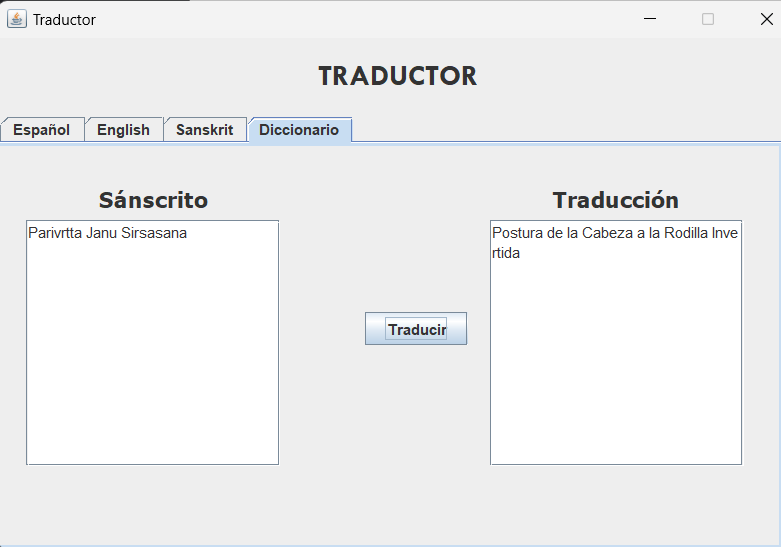
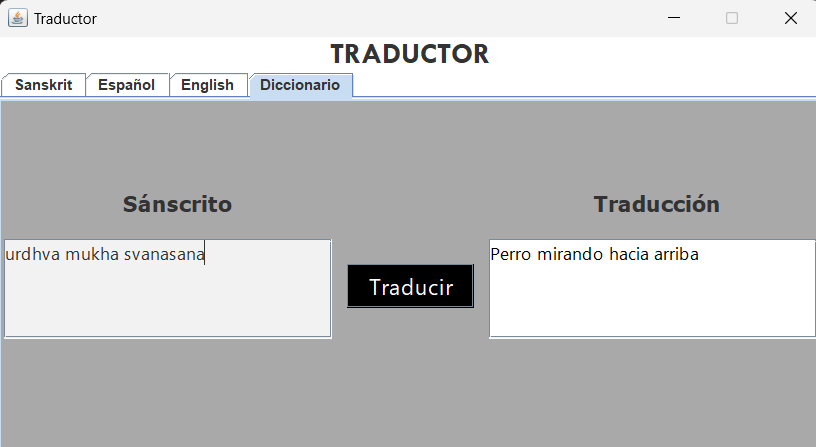
Completando archivos para version 2

diff --git a/Version-2/src/main/java/Logica/TraductorSanscrito.java b/Version-2/src/main/java/Logica/TraductorSanscrito.java
@@ -20,7 +20,7 @@ public class TraductorSanscrito {
         DICCIONARIO.put("kumbhakasana", "Postura de la Plancha");
         DICCIONARIO.put("malasana", "Postura de la Guirnalda");
         DICCIONARIO.put("matsyasana", "Postura del Pez");
-        DICCIONARIO.put("parivrtta janu Sirsasana", "Postura de la Cabeza a la Rodilla Invertida");
+        DICCIONARIO.put("parivrtta janu sirsasana", "Postura de la Cabeza a la Rodilla Invertida");
         DICCIONARIO.put("parivrtta trikonasana", "Postura del Triángulo Invertido");
         DICCIONARIO.put("paschimottanasana", "Flexión hacia adelante sentado");
         DICCIONARIO.put("setu bandhasana", "Postura del Puente");

diff --git a/Version-2/src/main/java/Vista/JFTraductor.java b/Version-2/src/main/java/Vista/JFTraductor.java
@@ -216,7 +216,7 @@ public class JFTraductor extends javax.swing.JFrame {
 
         tabPanel.addTab("English", jpEnglish);
 
-        jPanel1.setBackground(new java.awt.Color(216, 191, 216));
+        jPanel1.setBackground(new java.awt.Color(169, 169, 169));
         jPanel1.setLayout(new org.netbeans.lib.awtextra.AbsoluteLayout());
 
         jLabel8.setBackground(new java.awt.Color(255, 255, 255));

diff --git a/Version-2/documentation/doc-historias-usuario/historiasDeUsuario.md b/Version-2/documentation/doc-historias-usuario/historiasDeUsuario.md
@@ -1,58 +1,45 @@
-# Historias de Usuario
+# Criterios de Aceptación para las Historias de Usuario
 
 ## Historia de Usuario 1: Traducción entre Inglés, Sánscrito y Español
 
-**Descripción:**
-Como usuario, quiero tener la capacidad de traducir el nombre de una postura de yoga entre los idiomas español, inglés y sánscrito para mejorar mi aprendizaje en los 3 idiomas.
-
 **Criterios de Aceptación:**
-1. La traducción de la postura debe ser instantánea y mostrarse en los otros dos idiomas restantes.
-2. Se debe verificar que las traducciones sean precisas y comprensibles en los idiomas de destino.
-3. Se debe permitir al usuario realizar múltiples traducciones consecutivas sin problemas.
+1. La traducción de la postura debe ocurrir en tiempo real y mostrarse simultáneamente en español, inglés y sánscrito.
+2. Las traducciones deben ser precisas y comprensibles en los idiomas de destino, verificadas mediante revisión manual.
+3. El sistema debe permitir realizar múltiples traducciones consecutivas sin errores o interferencias entre ellas.
 
 ## Historia de Usuario 2: Visualización de Posturas en Interfaz
 
-**Descripción:**
-Como usuario, quiero poder visualizar en una interfaz gráfica las posturas de yoga para guiarme en las prácticas.
-
 **Criterios de Aceptación:**
-1. La interfaz debe mostrar representaciones gráficas de las posturas.
-2. La visualización de posturas debe ser clara y comprensible.
-3. Las imágenes deben ser relevantes y representativas de cada postura.
-
+1. La interfaz debe presentar representaciones gráficas claras y comprensibles de las posturas de yoga.
+2. Las imágenes de las posturas deben ser relevantes y fiel reflejo de las mismas.
+3. La visualización debe adaptarse a diferentes tamaños de pantalla y dispositivos.
 
 ## Historia de Usuario 3: Acceso sin Conexión a Internet
 
-**Descripción:**
-Como usuario, quiero poder acceder al traductor sin necesidad de conexión a internet para usar la aplicación en cualquier lugar.
-
 **Criterios de Aceptación:**
-1. La aplicación debe funcionar sin conexión a internet.
-2. Todas las funcionalidades esenciales, incluida la traducción, deben estar disponibles sin conexión.
+1. La aplicación debe ser completamente funcional sin conexión a internet.
+2. La traducción de posturas y otras funcionalidades esenciales debe estar disponible sin conexión.
+3. Se debe informar al usuario claramente cuando no haya conexión a internet disponible.
 
 ## Historia de Usuario 4: Autocompletar en la Búsqueda
 
-**Descripción:**
-Como usuario, quiero tener la opción de autocompletar mientras escribo el nombre de la postura para facilitar la búsqueda.
-
 **Criterios de Aceptación:**
-1. El sistema debe ofrecer sugerencias de autocompletar mientras se escribe el nombre de la postura.
-2. Las sugerencias deben ser precisas y relevantes.
+1. Mientras se escribe el nombre de la postura, el sistema debe ofrecer sugerencias de autocompletar.
+2. Las sugerencias deben basarse en la base de datos de posturas y ser actualizadas de manera dinámica.
+3. Las sugerencias deben desplegarse de manera rápida y sin retrasos perceptibles.
 
 ## Historia de Usuario 5: Interfaz Simple y Fácil de Usar
 
-**Descripción:**
-Como usuario, deseo que la interfaz del sistema sea simple y fácil de utilizar para acceder rápidamente a las traducciones sin complicaciones técnicas.
-
 **Criterios de Aceptación:**
-1. La interfaz debe presentar un diseño intuitivo y fácil de entender. 
-2. La navegación dentro de la aplicación debe ser clara y sin complicaciones.
-3. Todas las funciones principales deben ser accesibles con unos pocos clics o toques.
+1. El diseño de la interfaz debe ser intuitivo, siguiendo principios de usabilidad.
+2. La navegación dentro de la aplicación debe ser clara, con un menú de fácil acceso.
+3. Todas las funciones principales deben ser accesibles en no más de tres clics o toques.
+4. Se debe proporcionar una breve guía de introducción para nuevos usuarios.
 
 ## Historia de Usuario 6: Validación en la Entrada de Texto en la Pestaña de Diccionario
 
-**Descripción:**
-Como usuario, quiero que haya una validación en la entrada de texto en la pestaña de diccionario para asegurarme de que ingreso información válida y evitar errores.
-
 **Criterios de Aceptación:**
-1. Si se ingresa un texto no válido o vacío, el sistema no debe permtir que se registre estos valores para la traducción.
+1. La aplicación debe validar la entrada de texto en la pestaña de diccionario.
+2. Se debe mostrar un mensaje claro de error si se intenta registrar un texto no válido o vacío.
+3. La validación debe realizarse tanto en el lado del cliente como en el lado del servidor para mayor seguridad.
+4. Se debe proporcionar retroalimentación inmediata al usuario al intentar ingresar información inválida.

diff --git a/Version-2/documentation/doc-casos-de-prueba/casosdePrueba.md b/Version-2/documentation/doc-casos-de-prueba/casosdePrueba.md
@@ -1,5 +1,5 @@
 # Especificación de Casos de Prueba
-
+## Casos Funcionales
 ## Caso de Prueba 1: Verificar la Traducción Correcta
 
 **Descripción:**
@@ -90,4 +90,58 @@ Verificar la validación en la entrada de texto en la pestaña de Diccionario.
 3. Ingresar texto inválido (por ejemplo, números).
 
 **Resultado Esperado:**
-Confirmar que el sistema no deje ingresar caracteres especiales ni números.
+Confirmar que el sistema no deje ingresar caracteres especiales ni números y muestre una alerta.
+
+## Caso de Prueba 8: Validación en el Espacio de Traductor
+
+**Descripción:**
+Verificar la validación en el espacio de traductor cuando se deja vacío.
+
+**Pasos:**
+1. Abrir la aplicación.
+2. Seleccionar la pestaña de Traductor.
+3. Dejar vacío el espacio destinado para ingresar el texto a traducir.
+4. Intentar realizar la traducción.
+
+**Resultado Esperado:**
+Confirmar que el sistema detecta la entrada de texto vacía y muestra una alerta informativa indicando que el campo no puede estar en blanco. Además, verificar que no se realice ninguna traducción en ausencia de texto y que el sistema no genere resultados incorrectos.
+
+## Caso de Prueba 9: Traducción No Encontrada en el Diccionario
+
+**Descripción:**
+Verificar el comportamiento del sistema al intentar traducir una palabra o frase que no está presente en el diccionario proporcionado.
+
+**Pasos:**
+1. Abrir la aplicación.
+2. Seleccionar la pestaña de Traductor.
+3. Dejar vacío el espacio destinado para ingresar el texto a traducir.
+4. Intentar realizar la traducción.
+
+**Resultado Esperado:**
+Confirmar que el sistema detecta que la palabra o frase no está en el diccionario y muestra una alerta informativa indicando que la traducción no puede llevarse a cabo. Verificar que no se generen resultados incorrectos y que el sistema no intente realizar una traducción basada en la información disponible en el diccionario.
+
+## Casos No Funcionales
+
+## Caso de Prueba 10: Rendimiento del Traductor
+
+**Descripción:**
+Evaluar la velocidad de traducción del sistema bajo diferentes condiciones.
+
+**Pasos:**
+1. Ingresar textos cortos, medianos y largos para traducir.
+2. Medir el tiempo de respuesta del sistema para cada traducción.
+
+**Criterios de Aceptación:**
+- El tiempo de respuesta para traducciones de textos debe ser inferior a 1 segundo.
+
+## Caso de Prueba 11: Disponibilidad del Servicio
+
+**Descripción:**
+Verificar la disponibilidad del sistema en diferentes momentos del día.
+
+**Pasos:**
+1. Monitorear la disponibilidad del sistema durante períodos pico y valle.
+2. Registrar cualquier interrupción o tiempo de inactividad.
+
+**Criterios de Aceptación:**
+- El sistema debe estar disponible el 99.9% del tiempo, con un tiempo de inactividad mínimo.

diff --git a/Version-2/documentation/doc-lista-defectos-calidad/listado-defectos-calidad.md b/Version-2/documentation/doc-lista-defectos-calidad/listado-defectos-calidad.md
@@ -1,10 +1,13 @@
 # Defectos de Calidad del Proyecto
 
-| Defecto                                  | Descripción | Prioridad |
-|------------------------------------------|-------------|-----------|
-| 1: Falta de Validación Exhaustiva        | La aplicación no realiza una validación exhaustiva en la entrada de texto, lo que podría resultar en la aceptación de datos incorrectos o vacíos. | Media |
-| 2: Ausencia de Pruebas Unitarias | El código carece de pruebas unitarias adecuadas para verificar la funcionalidad de unidades específicas. | Alta |
-| 3: Falta de Internacionalización | El código no implementa técnicas de internacionalización para admitir múltiples idiomas. | Baja |
-| 4: Carencia de Comentarios       | El código carece de comentarios adecuados para explicar el propósito de las secciones críticas, decisiones de diseño, o detalles complejos de implementación. | Media |
+| Defecto                          | Descripción | Prioridad |
+|----------------------------------|-------------|-----------|
+| 1: Ausencia de Pruebas Unitarias | El código carece de pruebas unitarias adecuadas para verificar la funcionalidad de unidades específicas. | Alta |
+| 2: Falta de Internacionalización | El código no implementa técnicas de internacionalización para admitir múltiples idiomas. | Baja |
+| 3: Estética de la interfaz de usuario | La interfaz presenta elementos visuales desactualizados, por lo que será necesario mejorar ese aspecto en futuras versiones. | Media |
+| 4: Modularidad | Existen clases con muchas responsabilidades, dificultando la modularidad. | Alta |
+| 5: Reusabilidad | La falta de modularidad impide el uso de la estructura del proyecto en otros. | Media |
+| 6: Modificabilidad | La asignación de muchas responsabilidades en una clase dificulta la modificabilidad. | Alta |
+| 7: Instalabilidad | Para correr el programa desde el repositorio se necesita un cambio en la estructura del proyecto en el ordenador final. | Alta |
 
 

diff --git a/Version-2/documentation/doc-casos-de-prueba/documentacion_ejecucion_pruebas.md b/Version-2/documentation/doc-casos-de-prueba/documentacion_ejecucion_pruebas.md
@@ -3,8 +3,8 @@
 ## Resumen de Ejecución
 
 **Resultados Generales:**
-- Total de Casos de Prueba Ejecutados: 7
-- Casos de Prueba Exitosos: 7
+- Total de Casos de Prueba Ejecutados: 11
+- Casos de Prueba Exitosos: 11
 - Casos de Prueba Fallidos: 0
 
 ## Casos de Prueba
@@ -41,6 +41,26 @@
 
 ### Caso de Prueba 7: Validación en la Entrada de Texto
 ![CasoPrueba7](../images/cp7.png)
+
+**Estado:** Exitoso
+
+### Caso de Prueba 8: Validación en el Espacio de Traductor
+![CasoPrueba8](../images/cp8.png)
+
+**Estado:** Exitoso
+
+### Caso de Prueba 9: Traducción No Encontrada en el Diccionario
+![CasoPrueba9](../images/cp9.png)
+
+**Estado:** Exitoso
+
+### Caso de Prueba 10: Rendimiento del Traductor
+![CasoPrueba10](../images/cp10.png)
+
+**Estado:** Exitoso
+
+### Caso de Prueba 11: Disponibilidad del Servicio
+![CasoPrueba11](../images/cp11.png)
 
 **Estado:** Exitoso
 
